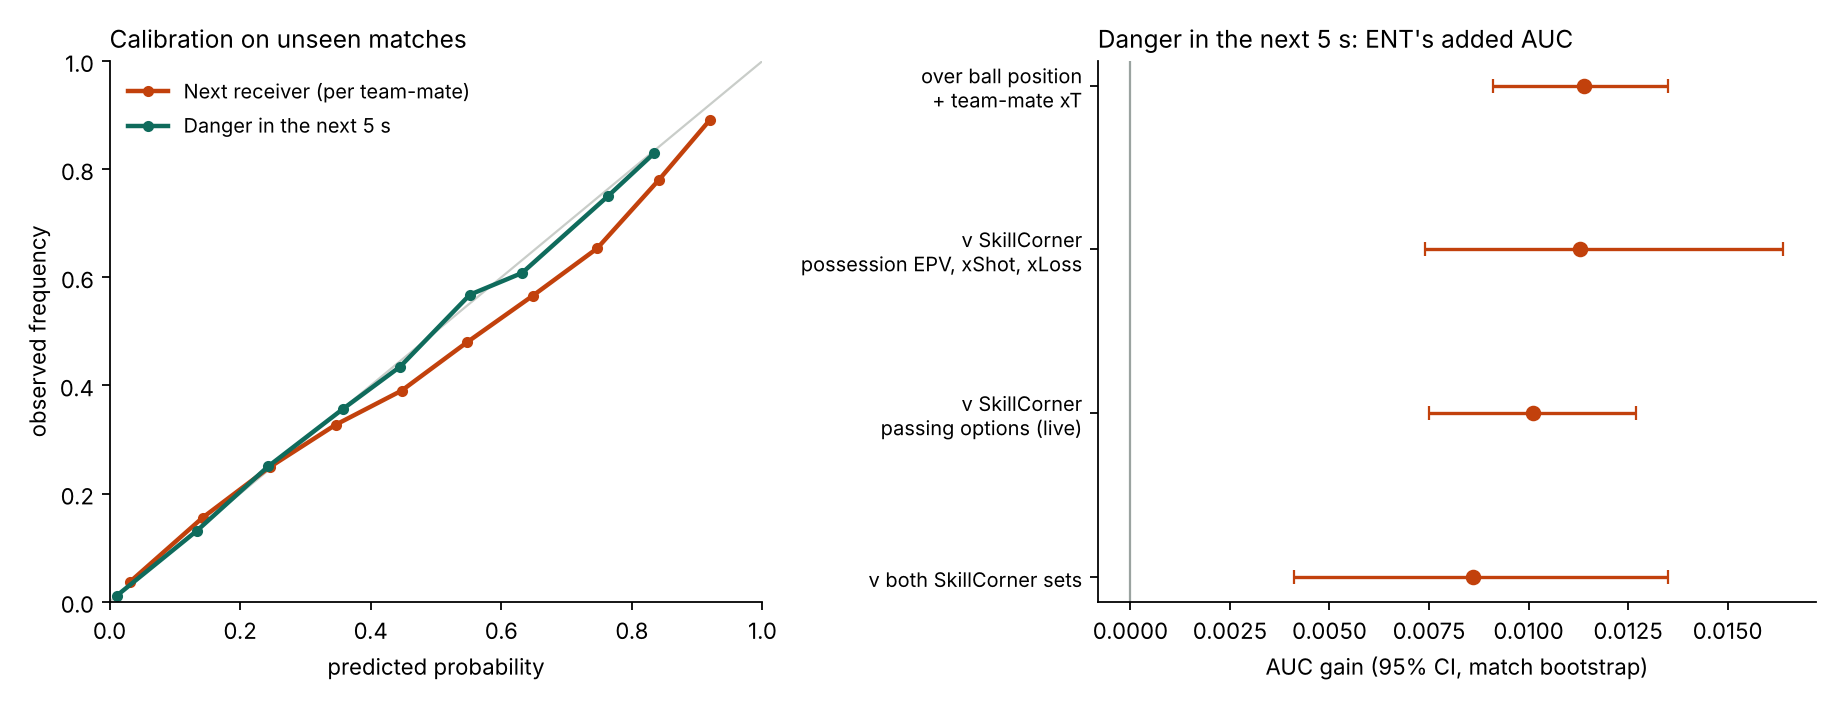
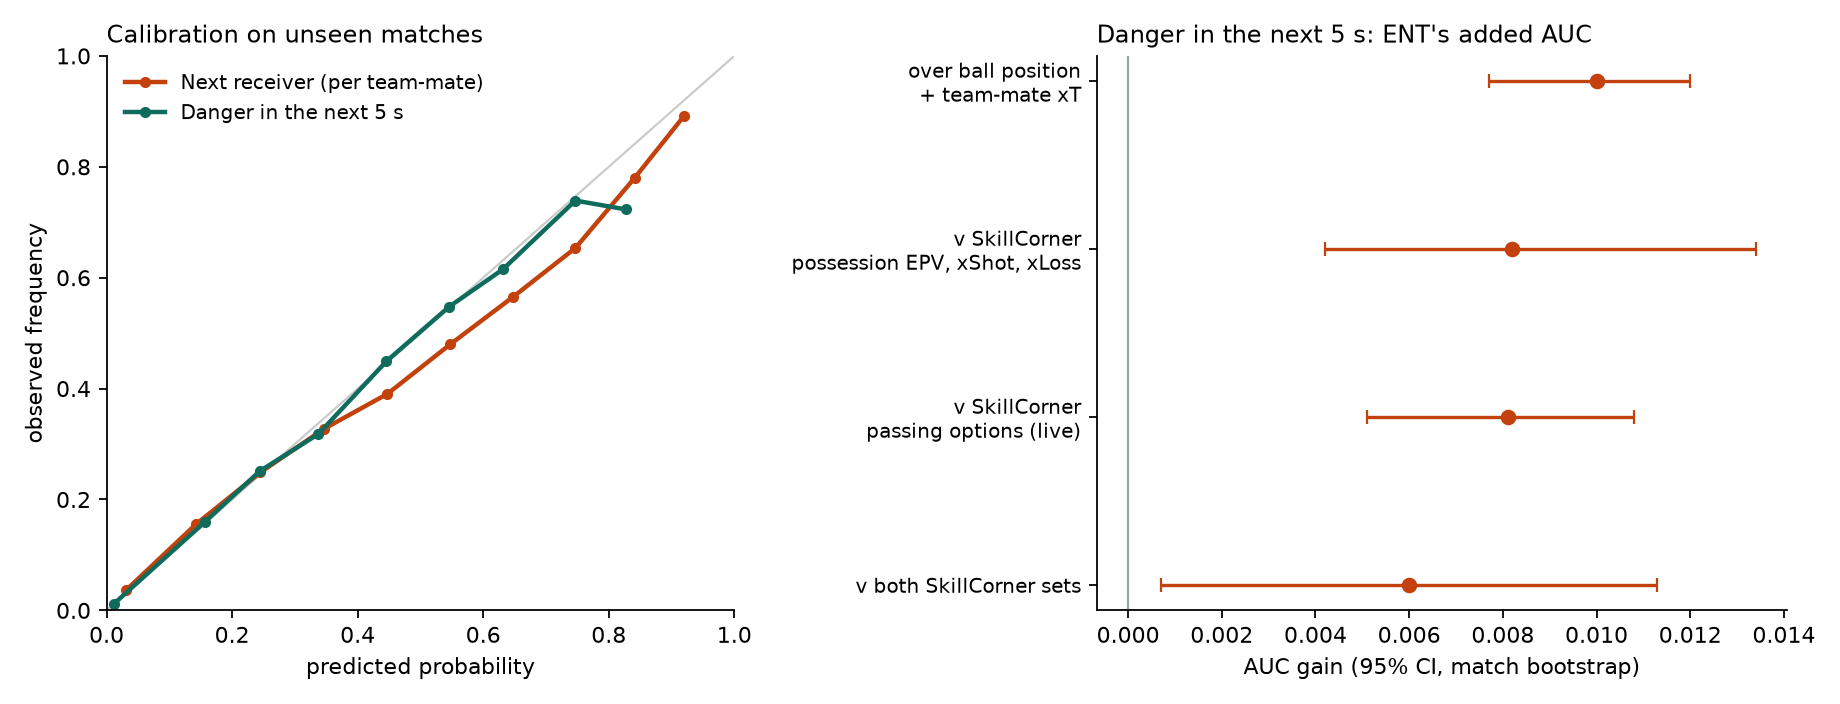
Fit xT and xG out of fold; stop CRLF breaking LightGBM models
- .gitattributes: mark pretrained/*.txt as -text so core.autocrlf=true on
  Windows no longer rewrites the LightGBM models and aborts the interpreter.
- training: fit_engine(fold_value_maps=True) fits the xT grid and xG model for
  fold k on the other 16 matches, for that fold's pass layer, action rows,
  carry value, ball and danger features. The pretrained engine keeps the
  all-match maps (train.py passes fold_value_maps=False).
- validate: carry value is checked against each match's out-of-fold xT grid.
- Regenerate docs/validation and update the README numbers from it. Gains
  shrink by about 0.002 to 0.003 AUC; no reported interval crosses zero.
- README: describe what is compared against SkillCorner's possession values
  (start-of-possession, held constant), update the Limits calibration note.

diff --git a/src/expected_next_threat/training.py b/src/expected_next_threat/training.py
@@ -80,36 +80,51 @@ def action_rows(M: Match, C: pd.DataFrame, agg: pd.DataFrame, xt, xg) -> pd.Data
     return F
 
 
+def fit_value_maps(ms, pp, exclude=()):
+    """Fit the 12 x 8 xT grid and the distance-angle xG on every match in ms except those in exclude."""
+    keep = [m for m in ms if m not in exclude]
+    pitch = pd.DataFrame({m: dict(pitch_length=ms[m].pitch_length, pitch_width=ms[m].pitch_width) for m in keep}).T
+    pk = pp[pp.match_id.isin(keep)]
+    return fit_xt(pk, pitch), XG().fit(pk, pitch)
+
+
 def prepare(match_ids=MATCH_IDS, quiet=True):
-    """Load matches, stitch possessions, fit the value maps."""
+    """Load matches, stitch possessions, fit the value maps on all of them."""
     ms = {m: load_match(m, quiet=quiet) for m in match_ids}
     ev = pd.concat([m.events for m in ms.values()], ignore_index=True)
     pp, tp = stitch_possessions(ev)
-    pitch = pd.DataFrame({m: dict(pitch_length=M.pitch_length, pitch_width=M.pitch_width) for m, M in ms.items()}).T
-    xt = fit_xt(pp, pitch)
-    xg = XG().fit(pp, pitch)
+    xt, xg = fit_value_maps(ms, pp)
     return ms, pp, xt, xg
 
 
-def fit_engine(match_ids=MATCH_IDS, folds=FOLDS, quiet=True, log=print):
+def fit_engine(match_ids=MATCH_IDS, folds=FOLDS, quiet=True, log=print, fold_value_maps=True):
     """Fit the full engine on match_ids, and score every match with fold models that never saw it.
 
+    With fold_value_maps (the default) the xT grid and the xG model that score fold k are fitted on the
+    matches outside fold k only, and feed that fold's pass layer, action rows, carry value, ball features
+    and danger features. The returned engine always carries the maps fitted on all matches (the pretrained
+    engine is in-sample anyway). Pass fold_value_maps=False to reproduce the pretrained models, whose
+    action and carry rows were built with the all-match maps.
+
     Returns a namespace: engine (fitted on all matches), oof (out-of-match scored carrier frames),
-    A (action rows), R (receiver rows with out-of-match p_oof), ms, pp, carriers, folds."""
+    A (action rows), R (receiver rows with out-of-match p_oof), ms, pp, carriers, folds,
+    xt_by_match (the xT grid that scored each match)."""
     ms, pp, xt, xg = prepare(match_ids, quiet)
     folds = [tuple(m for m in fm if m in ms) for fm in folds]
     R = finish_receiver_rows(pd.concat([receiver_rows(ms[m], pp) for m in match_ids], ignore_index=True))
     carriers = {m: carrier_frames(ms[m], pp, drop_untracked=False) for m in match_ids}  # as in the analysis
-    rec_folds, A_parts = {}, []
+    rec_folds, A_parts, maps = {}, [], {}
     for k, fm in enumerate(folds):
+        maps[k] = fit_value_maps(ms, pp, exclude=fm) if fold_value_maps else (xt, xg)
+        xt_k, xg_k = maps[k]
         rec = ReceiverModel().fit(R[~R.match_id.isin(fm)])
         rec_folds[k] = rec
         te_r = R.match_id.isin(fm).values
         R.loc[te_r, "p_oof"] = rec.predict(R[te_r], pd.factorize(R.frame_uid[te_r])[0])
-        eng = NextThreatEngine(xt, xg, rec, None, None)
+        eng = NextThreatEngine(xt_k, xg_k, rec, None, None)
         for m in fm:
             agg = eng.pass_layer(ms[m], carriers[m])
-            A_parts.append(action_rows(ms[m], carriers[m], agg, xt, xg))
+            A_parts.append(action_rows(ms[m], carriers[m], agg, xt_k, xg_k))
         log(f"receiver fold {k}: T = {rec.temperature:.3f}")
     A = pd.concat(A_parts, ignore_index=True).sort_values(["match_id", "frame"]).reset_index(drop=True)
     receiver = ReceiverModel().fit(R)
@@ -123,7 +138,7 @@ def fit_engine(match_ids=MATCH_IDS, folds=FOLDS, quiet=True, log=print):
         tr = A[~A.match_id.isin(fm)]
         act_k = ActionModel().fit(tr)
         car_k = CarryModel().fit(tr[(tr.act == "keep") & tr.dx.notna() & tr.dy_out.notna()])
-        ek = NextThreatEngine(xt, xg, rec_folds[k], act_k, car_k)
+        ek = NextThreatEngine(*maps[k], rec_folds[k], act_k, car_k)
         te = A[A.match_id.isin(fm)]
         PA = act_k.predict(te)
         sub = te[["match_id", "frame", "tp", "act", "tte", "ent", "xg_here"]].copy()
@@ -138,12 +153,16 @@ def fit_engine(match_ids=MATCH_IDS, folds=FOLDS, quiet=True, log=print):
         oof.append(sub)
         log(f"oof fold {k}: action T = {act_k.temperature:.3f}")
     oof = pd.concat(oof, ignore_index=True)
-    engine, oof = fit_stage2(engine, oof, A, ms, pp, carriers, folds, log)
-    return SimpleNamespace(engine=engine, oof=oof, A=A, R=R, ms=ms, pp=pp, carriers=carriers, folds=folds)
+    xt_by_match = {m: maps[k][0] for k, fm in enumerate(folds) for m in fm}
+    engine, oof = fit_stage2(engine, oof, A, ms, pp, carriers, folds, log, xt_by_match)
+    return SimpleNamespace(engine=engine, oof=oof, A=A, R=R, ms=ms, pp=pp, carriers=carriers, folds=folds,
+                           xt_by_match=xt_by_match)
 
 
-def fit_stage2(engine, oof, A, ms, pp, carriers, folds=FOLDS, log=print):
-    """Shot calibration and the danger layer, both fitted on out-of-match engine scores."""
+def fit_stage2(engine, oof, A, ms, pp, carriers, folds=FOLDS, log=print, xt_by_match=None):
+    """Shot calibration and the danger layer, both fitted on out-of-match engine scores.
+
+    xt_by_match maps each match to the xT grid that scored it (default: the engine's own grid)."""
     oof = oof.sort_values(["match_id", "frame"]).reset_index(drop=True)
     y_shot = (oof.act == "shot").values.astype(int)
     P = oof[["p_keep", "p_pass", "p_shot", "p_other"]].values
@@ -162,7 +181,8 @@ def fit_stage2(engine, oof, A, ms, pp, carriers, folds=FOLDS, log=print):
         C = carriers[m].set_index("frame").loc[g.frame.values, ["carrier_slot", "sign"]].reset_index()
         g = g.reset_index(drop=True)
         g["carrier_slot"] = C.carrier_slot.values; g["sign"] = C.sign.values
-        bf = ball_features(ms[m], g.frame.values.astype(int), g.carrier_slot.values.astype(int), g.sign.values.astype(float), engine.xt)
+        bf = ball_features(ms[m], g.frame.values.astype(int), g.carrier_slot.values.astype(int), g.sign.values.astype(float),
+                           engine.xt if xt_by_match is None else xt_by_match[m])
         tg = danger_targets(ms[m], g, pp)
         parts.append(pd.concat([g, bf, tg], axis=1))
     oof = trend_features(pd.concat(parts, ignore_index=True))

diff --git a/src/expected_next_threat/validate.py b/src/expected_next_threat/validate.py
@@ -3,7 +3,7 @@
     python -m expected_next_threat.validate [output_folder]
 
 Fits the engine fold by fold (five folds of four matches; each match is scored only by models that
-never saw it), then reports:
+never saw it, and the xT and xG value maps that score a fold are fitted without that fold), then reports:
   1. calibration: receiver, action (with P(shot) recalibration), carry, danger layer
   2. danger in the next 5 s beyond naive tracking (AUC, match-bootstrap 95% CIs)
   3. head to head with SkillCorner's live-usable outputs (possession EPV / xShot / xLoss, causal option menu)
@@ -125,8 +125,15 @@ def carry_section(fit):
     L = K.match_id.map({m: M.pitch_length for m, M in fit.ms.items()}).values
     W = K.match_id.map({m: M.pitch_width for m, M in fit.ms.items()}).values
     sg = np.sign(K.cy.values + 1e-6)
-    real = xt_at(fit.engine.xt, np.clip(K.cx + K.dx, -L / 2, L / 2), np.clip(K.cy + K.dy_out * sg, -W / 2, W / 2), L, W)
-    cv = xt_at(fit.engine.xt, np.clip(K.cx + cvx, -L / 2, L / 2), np.clip(K.cy + cvy * sg, -W / 2, W / 2), L, W)
+    mid = K.match_id.values
+    def xt_oof(x, y):  # each match is valued with the xT grid fitted without it
+        v = np.empty(len(K))
+        for m in np.unique(mid):
+            i = mid == m
+            v[i] = xt_at(fit.xt_by_match[m], np.asarray(x)[i], np.asarray(y)[i], L[i], W[i])
+        return v
+    real = xt_oof(np.clip(K.cx + K.dx, -L / 2, L / 2), np.clip(K.cy + K.dy_out * sg, -W / 2, W / 2))
+    cv = xt_oof(np.clip(K.cx + cvx, -L / 2, L / 2), np.clip(K.cy + cvy * sg, -W / 2, W / 2))
     return dict(frames=int(len(K)),
                 r2_forward=r4(r2_score(K.dx, K.carry_dx)), r2_forward_constant_velocity=r4(r2_score(K.dx, cvx)),
                 r2_outward=r4(r2_score(K.dy_out, K.carry_dy_out)), r2_outward_constant_velocity=r4(r2_score(K.dy_out, cvy)),
@@ -219,7 +226,7 @@ def evidence_figure(rep, path):
 
 def main(out_dir="validation"):
     out = Path(out_dir); out.mkdir(parents=True, exist_ok=True)
-    fit = fit_engine(log=lambda s: print(s, flush=True))
+    fit = fit_engine(log=lambda s: print(s, flush=True), fold_value_maps=True)
     rep = dict(note="All numbers are out of match: each match is scored by models that never saw it. Associations only.",
                folds=[list(map(int, f)) for f in fit.folds])
     rep["receiver"] = receiver_section(fit.R); print("receiver done", flush=True)

diff --git a/scripts/train.py b/scripts/train.py
@@ -8,6 +8,7 @@ reports the out-of-match evidence.
 from expected_next_threat.engine import PRETRAINED
 from expected_next_threat.training import fit_engine
 
-fit = fit_engine(log=lambda s: print(s, flush=True))
+# the pretrained engine is in-sample, so its rows use the all-match value maps (validate.py uses per-fold maps)
+fit = fit_engine(log=lambda s: print(s, flush=True), fold_value_maps=False)
 fit.engine.save(PRETRAINED)
 print("saved", PRETRAINED)

diff --git a/README.md b/README.md
@@ -33,23 +33,24 @@ Every probability model is calibrated on matches it did not train on. The struct
 
 ## Does it work?
 
-All numbers below are out of match: the 20 matches are split into five folds, and each match is scored only by models that never saw it. `python -m expected_next_threat.validate` reproduces every number in this section. They are associations, not causal effects.
+All numbers below are out of match: the 20 matches are split into five folds, and each match is scored only by models that never saw it. The xT and xG value maps are fitted out of fold too: the maps that score a fold are fitted on the other 16 matches only. `python -m expected_next_threat.validate` reproduces every number in this section. They are associations, not causal effects.
 
 ![Figure 2](docs/validation/evidence.png)
 
 *Figure 2. Left: predicted v observed frequency on unseen matches. Right: added AUC for predicting a box entry or shot in the next 5 s, with 95% match-bootstrap intervals.*
 
 - **Next receiver:** the right team-mate ranks first 48.6% of the time (chance 11.0%, about 9 candidates) and in the top three 81.7%. Calibration error is 0.004 per team-mate.
-- **Next action:** log-loss 0.746 against 0.889 for the same learner on location only; calibration error 0.014 or less per class.
+- **Next action:** log-loss 0.748 against 0.889 for the same learner on location only; calibration error 0.0165 or less per class.
 - **Carry:** where the carrier is 1 s later, R² 0.91 forward and 0.90 sideways (constant velocity: 0.69 and 0.63).
-- **Danger in the next 5 s:** AUC 0.932, calibration error 0.002. ENT adds +0.011 AUC [0.009, 0.014] over ball position, ball xT and team-mate xT, and its trend adds a further +0.002.
-- **Against SkillCorner's own live values** (frames more than 1 s before the pass or shot): ENT beats possession EPV, xShot and xLoss by +0.011 [0.007, 0.016] and the passing options available at that moment by +0.010 [0.007, 0.013], and adds +0.011 beyond both together.
+- **Danger in the next 5 s:** AUC 0.930, calibration error 0.002. ENT adds +0.010 AUC [0.008, 0.012] over ball position, ball xT and team-mate xT, and its trend adds a further +0.003.
+- **Against SkillCorner's possession values and passing options** (frames more than 1 s before the pass or shot): SkillCorner's `possession_epv_for_start`, `xshot_player_possession_start` and `xloss_player_possession_start` are set at the start of each player possession and held constant through it, while this engine updates every 0.2 s, so the two are not like for like. ENT beats those three by +0.008 [0.004, 0.013] and the passing options available at that moment by +0.008 [0.005, 0.011], and adds +0.008 beyond both together.
 
 SkillCorner's passing options, as listed, are anchored on the pass that was actually played: in the final moments before a pass, the eventual receiver is almost always in the menu. They are built to explain a pass afterwards; this engine forecasts before it. The comparison above uses only options that had already peaked, which is what a live system would see.
 
 ## Limits
 
 - The gains over naive tracking are real but modest, about +0.01 AUC.
+- The danger layer's top calibration bin (mean p 0.827, n = 112) observes 0.723, so the highest probabilities are over-confident.
 - The receiver model is calibrated on average, but slightly over-confident between 0.4 and 0.8, and its confidence does not change with how long the carrier has had the ball.
 - The carry horizon is 1 s; longer dribbles are a chain of 1 s steps. The pass part ignores completion probability: it means "if the pass is played and arrives".
 - Twenty matches from one league, with broadcast tracking (about 58% of player-frames detected). No player rankings: 20 matches cannot support them.
